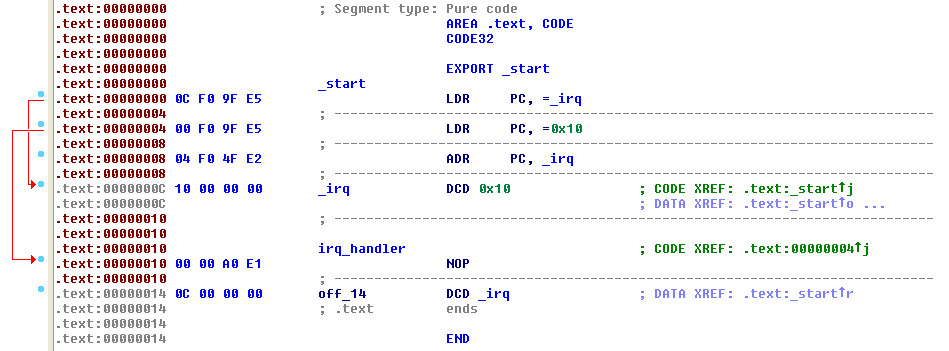
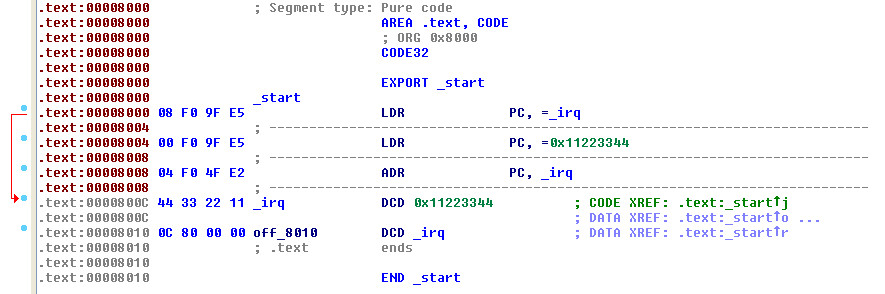
init

diff --git a/mcu/arm/addr.htm b/mcu/arm/addr.htm
@@ -55,19 +55,15 @@
 </p>
 <pre class="brush:asm">
   .global _start
-
+ 
   .arm
   .text
 _start:
   ldr pc, =_irq
   ldr pc, _irq
   adr pc, _irq
-
-_irq:
-  .word irq_handler
-
-irq_handler:
-  nop
+ 
+_irq: .word 0x11223344
   .end
 </pre><br>
 
@@ -75,9 +71,9 @@ irq_handler:
 反組譯：<br>
 <img src="addr/1.jpg" class="maxSize"><br><br>
 
-<b>ldr pc, =_irq</b>：絕對位置<br>
-<b>ldr pc, _irq</b>：位址內容<br>
-<b>adr pc, _irq</b>：偏移位址
+<b>ldr pc, =_irq</b>：絕對位置(pc = 0x800c)<br>
+<b>ldr pc, _irq</b>：位址內容(pc = 0x11223344)<br>
+<b>adr pc, _irq</b>：偏移位置(pc = 0x800c)
 </p>
 
 <p>
